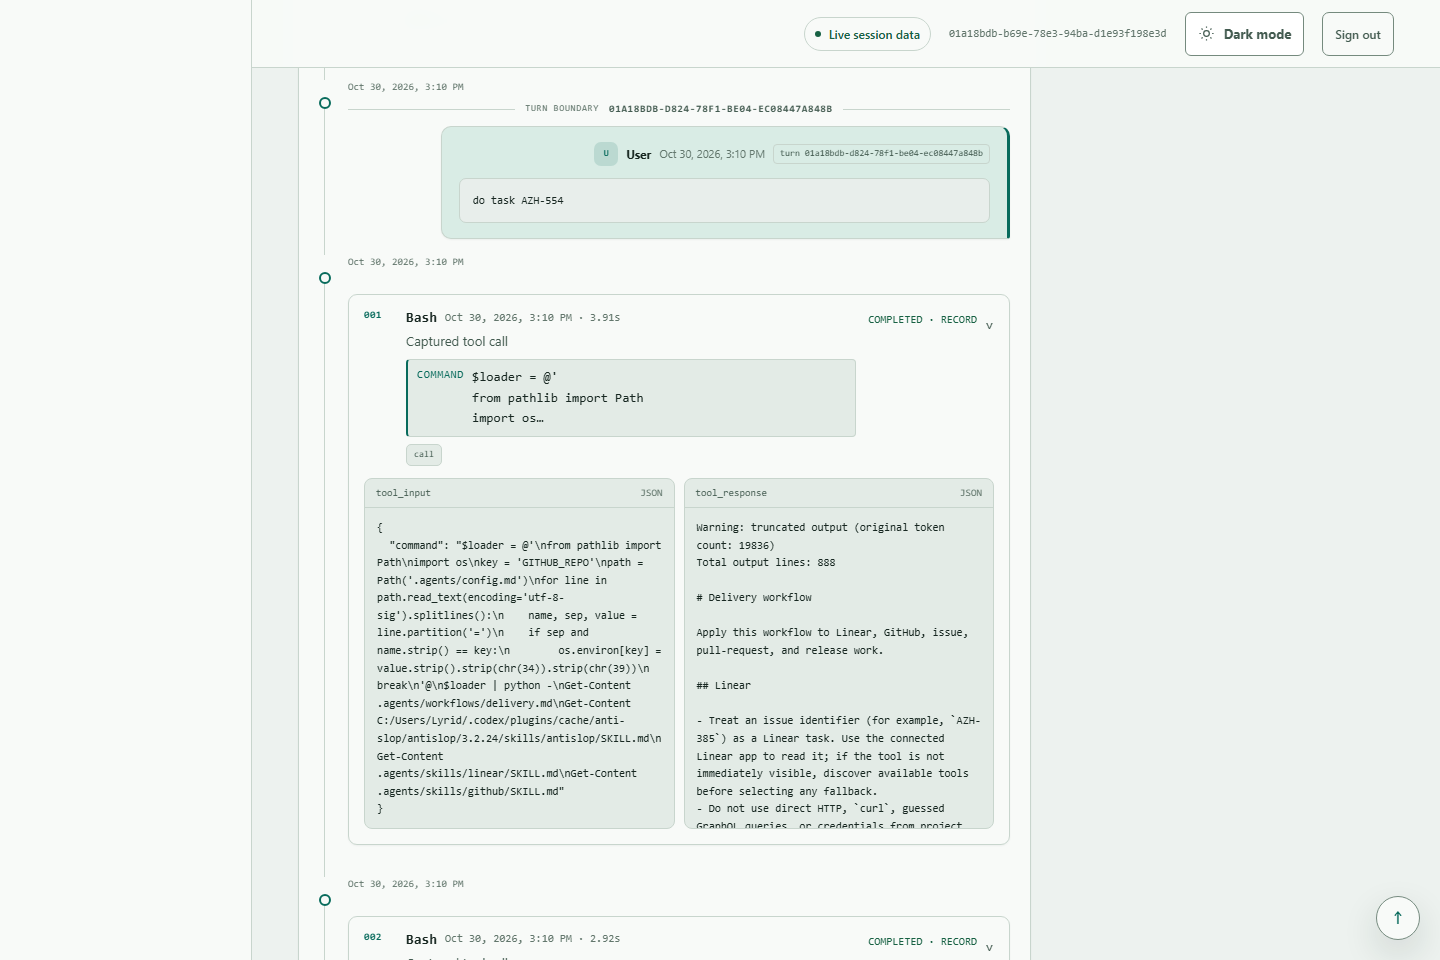
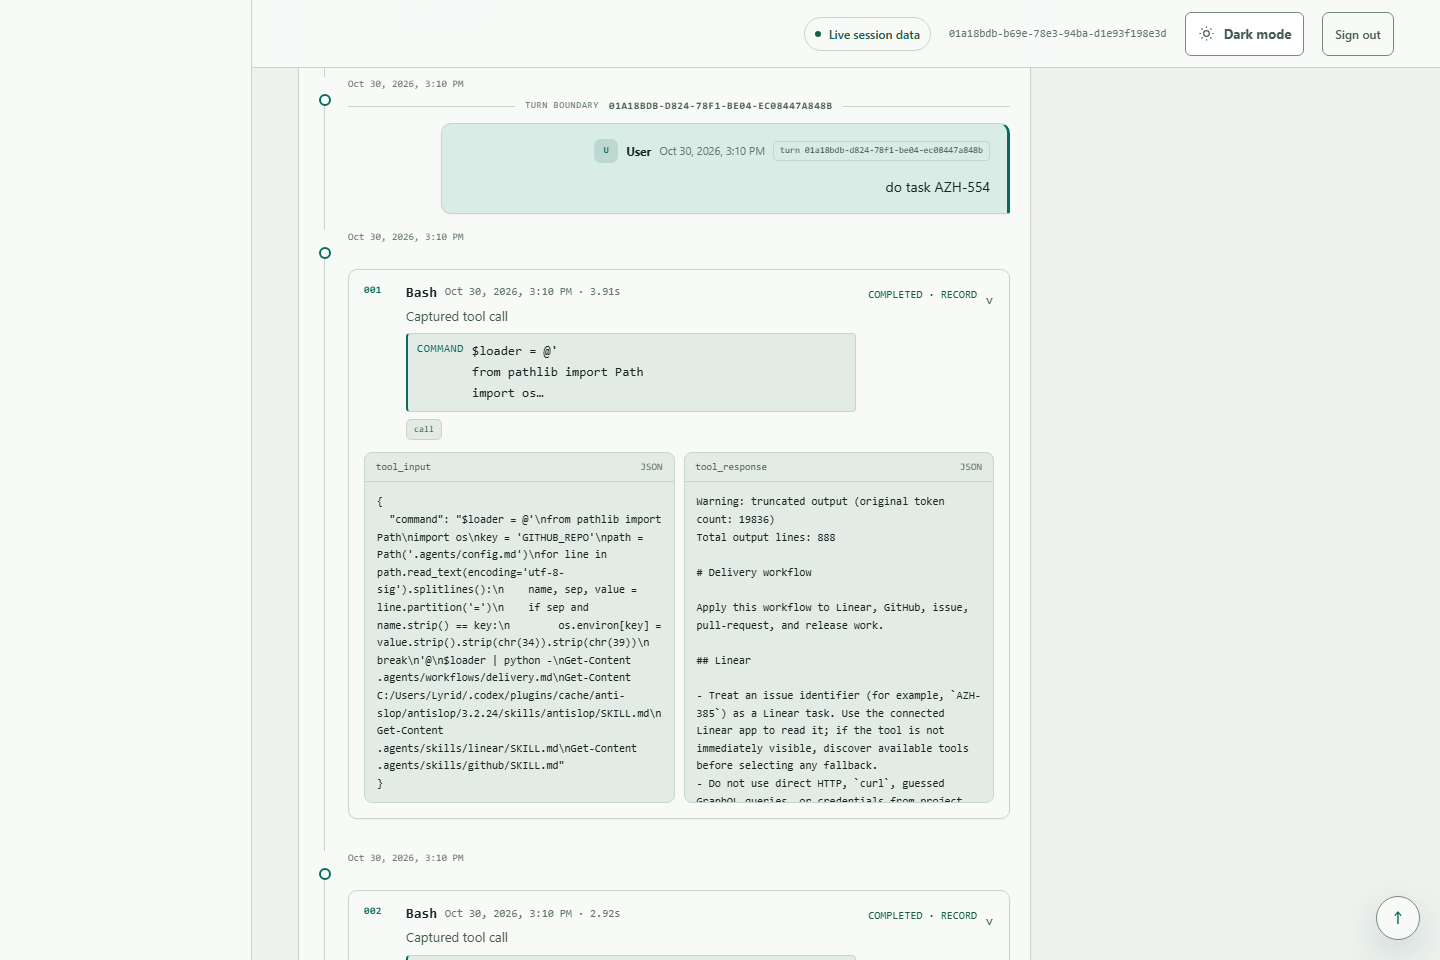
fix(trace): keep prose prompts out of the code block style
isCodeShaped treated any newline as code, so a prompt like 'do task AZH-554' with a trailing newline rendered as a bordered monospace block inside the message card. Ignore trailing whitespace before the newline test so single-line prose stays a paragraph while real multi-line content and code keep the code treatment.

Adds a regression test covering the trailing-newline prompt, multi-line content, and inline code.

diff --git a/frontend/src/traceViewModel.test.js b/frontend/src/traceViewModel.test.js
@@ -51,6 +51,19 @@ describe('normalizeTraceViewModel', () => {
     expect(model.messageCount).toBe(3)
   })
 
+  it('treats a trailing newline as prose and keeps real multi-line content as code', () => {
+    const model = normalizeTraceViewModel({
+      ...apiTrace,
+      conversation: [
+        { role: 'user', content: 'do task AZH-554\n', occurred_at: '2026-08-19T08:00:00Z', turn_id: 'turn-1', raw: {} },
+        { role: 'user', content: 'first line\nsecond line', occurred_at: '2026-08-19T08:00:01Z', turn_id: 'turn-1', raw: {} },
+        { role: 'user', content: 'const safe = true', occurred_at: '2026-08-19T08:00:02Z', turn_id: 'turn-1', raw: {} },
+      ],
+    })
+
+    expect(model.conversation.map((event) => event.contentIsCode)).toEqual([false, true, true])
+  })
+
   it('retains session and timeline token usage from the API contract', () => {
     const model = normalizeTraceViewModel({
       schema_version: '1',

diff --git a/frontend/src/traceViewModel.js b/frontend/src/traceViewModel.js
@@ -216,9 +216,10 @@ function normalizeProvenance(item, raw) {
 }
 
 function isCodeShaped(value, text) {
+  const trimmed = text.replace(/\s+$/, '')
   return typeof value !== 'string'
-    || text.includes('\n')
-    || /```|[{}[\];<>]|\b(const|function|return|import|export)\b/.test(text)
+    || trimmed.includes('\n')
+    || /```|[{}[\];<>]|\b(const|function|return|import|export)\b/.test(trimmed)
 }
 
 const USAGE_CONTAINER_KEYS = new Set(['usage', 'token_usage', 'tokenUsage'])
